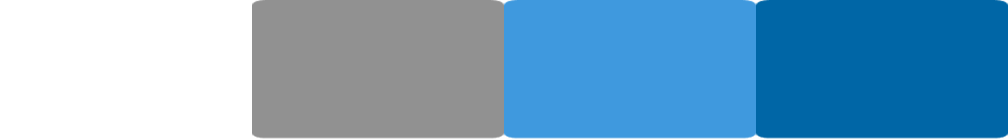
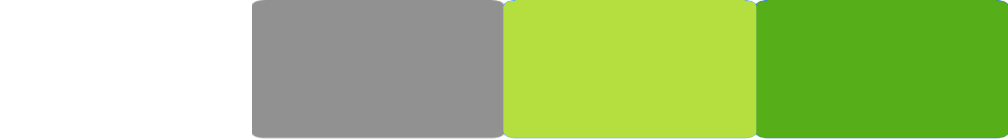
Updated final assets, added licensing and credits to readme

diff --git a/core/src/com/beachbb/game/BeachBB.java b/core/src/com/beachbb/game/BeachBB.java
@@ -13,7 +13,7 @@ public class BeachBB extends Game {
 	public static final String TEX_SCREEN_LOADING = "base-loading-screen.png";
 	public static final String TEX_SCREEN_TITLE = "bbb-title-artwork.png";
 	public static final String TEX_SHEET_TITLE = "bbb-ui-connection.png";
-	public static final String TEX_SCREEN_GAME = "bbb-base-game-screen.png";
+	public static final String TEX_SCREEN_GAME = "bbb-final-game-screen.png";
 	public static final String TEX_SHEET_TILE = "bbb-base-tiles.png";
 	public static final String TEX_SHEET_CARD_BACK = "bbb-base-card-back.png";
 	public static final String TEX_SHEET_CARD_FRONT = "bbb-card-front2.png";

diff --git a/core/src/com/beachbb/game/Tile.java b/core/src/com/beachbb/game/Tile.java
@@ -75,7 +75,7 @@ public class Tile extends Actor {
             tileSprite = new TextureRegion(tileTexture, 0, 0, 117, 101);
         }
         else {
-            tileSprite = new TextureRegion(tileTexture, 118, 0, 117, 101);
+            tileSprite = new TextureRegion(tileTexture, 117, 0, 117, 101);
         }
     }
 

diff --git a/README.md b/README.md
@@ -19,19 +19,11 @@
 - Cycle through cards on the right side of the screen by pressing up/down arrow keys, or by using the numpad directly
 - Fire an attack by pressing the Enter key
 
-## Sprite Sizes and Locations
-- Mockup is posted on discord
-- tile size: 117 x 101
-- card size: 252 x 139
-- shark sprite: 117 x 146
+## Credits
+- All artwork and assets by Zhong (June) Chai
+- All music by Camillia Moore
 
-### Locations (NOT converted to libgdx coordinate system)
-- tile first bottom corner: 171, 724
-- tile between: 9 horizontal, 9 vertical
-- cards left box: 861, 25
-- card backing: 979, 20
-- card backing between: 11 vertical
-- mana last bottom corner: 876, 730
-- mana box size: 54, 20
-- mana between: 7 vertical
-- shark sprite bottom corner: 170, 504
+## License
+<img src="https://mirrors.creativecommons.org/presskit/buttons/88x31/png/by-nc-nd.png" width="100px" alt="Creative Commons BY-NC-ND icon" />
+
+This game is licensed under [Creative Commons BY-NC-ND](https://creativecommons.org/licenses/by-nc-nd/4.0/): Copying and distribution of the contents of this game is allowed in unadapted form only, for noncommercial purposes only, and only so long as attribution is given to the creator.

diff --git a/issues.md b/issues.md
@@ -4,10 +4,11 @@
 - **[2]** Implement HP, Mana bars, and collision detection
 - **[3]** Add assets for cards
 - **[4]** Finish loading and title screen UI and assets
-
-### Open Issues
 - **[5]** Add sprite idle and other animations, visual effects
 - **[6]** Replace basic assets with polished assets
+
+### Open Issues
+
 
 ## Camillia
 ### Resolved Issues
